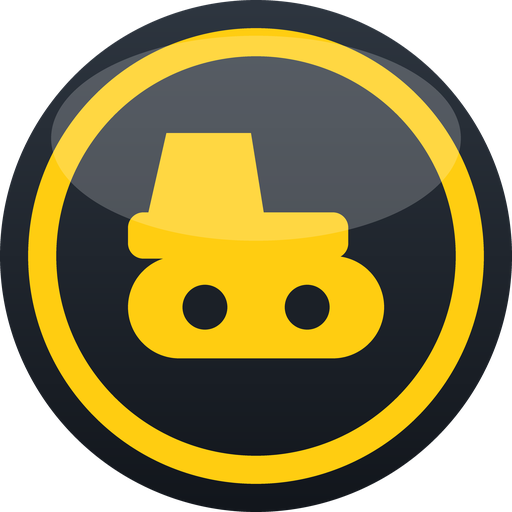
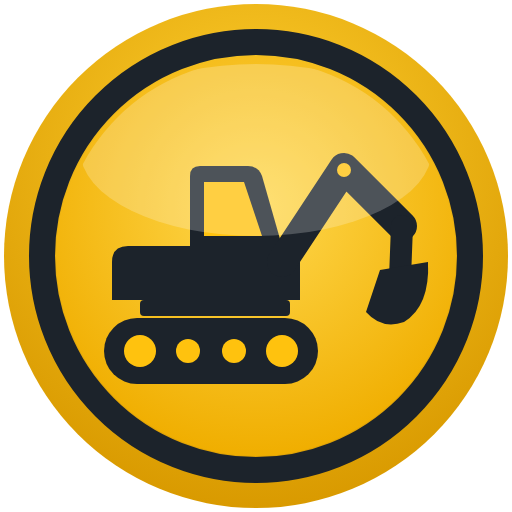
Add files via upload

diff --git a/campo.html b/campo.html
@@ -2,14 +2,14 @@
 <html lang="es">
 <head>
 <meta charset="utf-8">
-<meta name="gllr-version" content="V.191026-4" data-pagina="REPORTE (app de campo)">
+<meta name="gllr-version" content="V.201026-1" data-pagina="REPORTE (app de campo)">
 <meta name="viewport" content="width=device-width,initial-scale=1,viewport-fit=cover">
 <title>REPORTE</title>
 <link rel="manifest" href="campo.webmanifest">
 <link rel="icon" href="campo-32.png" sizes="32x32">
 <link rel="icon" href="campo-192.png" sizes="192x192">
 <link rel="apple-touch-icon" href="campo-180.png">
-<meta name="theme-color" content="#1c232b">
+<meta name="theme-color" content="#FFC20E">
 <meta name="apple-mobile-web-app-capable" content="yes">
 <meta name="mobile-web-app-capable" content="yes">
 <meta name="apple-mobile-web-app-title" content="REPORTE">
@@ -95,15 +95,80 @@ canvas.firma{width:100%;height:120px;border:1px dashed #b8c0ca;border-radius:10p
 @media (min-width:700px){main{max-width:640px;margin:0 auto;width:100%}}
 .tp{grid-template-columns:46px 1fr 1fr 1fr}
 .neu{width:42px;height:52px}
+
+/* ═══ ESTILO tipo AppSheet (Material) ═══ */
+:root{--am:#FFC20E;--amT:#2b2100;--bg:#f5f5f5;--gris:#5f6368}
+body{font-family:Roboto,"Segoe UI",Arial,sans-serif;background:var(--bg)}
+header{background:var(--am);color:var(--amT);box-shadow:0 2px 4px rgba(0,0,0,.2);padding:calc(10px + env(safe-area-inset-top)) 10px 12px;z-index:5}
+header .t{font-weight:500;font-size:20px}header .s{color:#6b5300;font-size:13.5px}
+header .bk{display:flex;align-items:center;width:34px}header .bk svg{width:26px;height:26px}
+header .hico{width:38px;height:38px;border-radius:50%;display:flex;align-items:center;justify-content:center;cursor:pointer;flex-shrink:0}
+header .hico svg{width:26px;height:26px;fill:var(--amT)}
+.net{margin-left:auto;background:rgba(255,255,255,.6)!important}
+svg{fill:currentColor}
+main{padding:12px 12px calc(24px + env(safe-area-inset-bottom))}
+main.full{padding:0 0 110px}
+.c{border-radius:6px;box-shadow:0 1px 2px rgba(0,0,0,.14);padding:14px}
+.c h4{color:#202124;font-weight:500;font-size:18px}
+.sec{color:#7a5b00;font-weight:700;letter-spacing:.06em;border-bottom:2px solid var(--am);padding-bottom:6px;margin-bottom:8px}
+label{color:var(--gris);font-weight:500;letter-spacing:.02em}
+input,select,textarea{border-radius:4px;border:1px solid #c4c7c5}
+input:focus,select:focus,textarea:focus{outline:none;border-color:#E0A800;box-shadow:0 0 0 2px rgba(255,194,14,.35)}
+.chips span{border-radius:4px;background:#f1f3f4;border:1px solid #e0e0e0;flex:1;text-align:center;padding:12px 10px;color:#3c4043}
+.chips span.on{background:var(--am);border-color:#E0A800;color:var(--amT);font-weight:700}
+.chips span.on.op{color:#fff}.chips span.on.in{color:#fff}
+.tec span{border-radius:4px;background:#f1f3f4;border-color:#e0e0e0}
+.tec span.on{background:var(--am);border-color:#E0A800;color:var(--amT)}
+.btn{border-radius:6px;font-weight:700;letter-spacing:.03em}
+.b-y{background:var(--am);color:var(--amT)}.b-n{background:#1c232b}
+.hint{color:#7a5b00}.add{color:#B07D00}
+/* barra inferior */
+#tabs{display:flex;background:var(--am);box-shadow:0 -1px 4px rgba(0,0,0,.18);padding-bottom:env(safe-area-inset-bottom);flex-shrink:0;z-index:5}
+#tabs a{flex:1;display:flex;flex-direction:column;align-items:center;gap:3px;padding:9px 2px 8px;font-size:12.5px;color:#5a4600;text-transform:uppercase;letter-spacing:.02em;position:relative;cursor:pointer;text-decoration:none}
+#tabs a svg{width:25px;height:25px;fill:#5a4600}
+#tabs a.on{color:#1a1400;font-weight:700}#tabs a.on svg{fill:#1a1400}
+#tabs a.on:after{content:'';position:absolute;bottom:3px;width:40px;height:3px;border-radius:2px;background:#1c232b}
+/* pie de formulario Cancelar | Guardar */
+#pie{display:flex;background:#fff;border-top:1px solid #e0e0e0;flex-shrink:0;padding-bottom:env(safe-area-inset-bottom);z-index:5}
+#pie button{flex:1;border:none;background:none;padding:17px;font:inherit;font-size:18px;cursor:pointer;color:#3c4043}
+#pie button.g{color:#C48A00;font-weight:700}#pie button:disabled{opacity:.4}
+/* botón flotante */
+.fab{position:fixed;right:18px;bottom:calc(86px + env(safe-area-inset-bottom));width:62px;height:62px;border-radius:50%;background:var(--am);box-shadow:0 4px 12px rgba(0,0,0,.3);display:flex;align-items:center;justify-content:center;cursor:pointer;z-index:20}
+.fab svg{width:34px;height:34px;fill:#1c232b}
+/* listas tipo tabla */
+.bar{background:#fff;padding:10px 14px;display:flex;align-items:center;gap:10px;border-bottom:1px solid #e6e6e6}
+.bar select{flex:1}
+.gh{background:#f1f3f4;padding:10px 14px;font-size:14px;color:#3c4043;text-transform:uppercase;letter-spacing:.03em;display:flex;gap:8px;align-items:center;border-bottom:1px solid #e3e3e3}
+.gh .ct{background:#dadce0;border-radius:3px;padding:0 7px;font-size:13px;font-weight:700}
+.li{display:flex;align-items:center;gap:12px;padding:12px 14px;border-bottom:1px solid #eee;cursor:pointer;background:#fff}
+.li:active{background:#FFF8E1}
+.li .av{width:44px;height:44px;border-radius:50%;display:flex;align-items:center;justify-content:center;flex-shrink:0}
+.li .av svg{width:24px;height:24px}
+.li .tx{flex:1;min-width:0}
+.li .tx b{display:block;font-weight:500;font-size:17px;color:#202124;white-space:nowrap;overflow:hidden;text-overflow:ellipsis}
+.li .tx small{display:block;color:var(--gris);font-size:14.5px;white-space:nowrap;overflow:hidden;text-overflow:ellipsis}
+.li .chev svg{width:22px;height:22px;fill:#80868b}
+.vacio{text-align:center;color:var(--gris);padding:40px 24px;font-size:16px}
+.vacio svg{width:56px;height:56px;fill:#d0d3d6;display:block;margin:0 auto 10px}
+.a1{background:#FFF3CC;color:#B07D00}.a2{background:#E3F2FD;color:#1565C0}.a3{background:#ECEFF1;color:#37474F}
+.a4{background:#FBE9E7;color:#BF360C}.a5{background:#E8F5E9;color:#2E7D32}.a6{background:#F3E5F5;color:#6A1B9A}
+.hb{border-radius:16px;box-shadow:0 1px 4px rgba(0,0,0,.08)}.hb .i{background:#E6E9F7}.hb b{color:var(--navy);font-weight:800}
+.sbtn{width:52px;flex-shrink:0;border-radius:10px;background:#E6E9F7;display:flex;align-items:center;justify-content:center;cursor:pointer}.sbtn svg{width:26px;height:26px;fill:var(--navy)}
+#cqSel{font-size:17px}
+header>div{min-width:0}header .t{white-space:nowrap;overflow:hidden;text-overflow:ellipsis;font-size:19px}
+.hbt{display:flex;gap:8px}.hbt .btn{flex:1;font-size:16px;padding:13px 6px;white-space:nowrap}
 </style>
 </head>
 <body>
 <header>
-  <span class="bk" id="bk">‹</span><img src="campo-192.png" alt="" style="width:28px;height:28px">
+  <span class="bk" id="bk"><svg viewBox="0 0 24 24"><path d="M20 11H7.83l5.59-5.59L12 4l-8 8 8 8 1.41-1.41L7.83 13H20v-2z"/></svg></span><img id="hlogo" src="campo-192.png" alt="" style="width:30px;height:30px">
   <div><div class="t" id="tit">REPORTE</div><div class="s" id="sub"></div></div>
   <span class="net on" id="net">● En línea</span>
+  <span class="hico" id="hRef" title="Actualizar" onclick="actualizar()"><svg viewBox="0 0 24 24"><path d="M17.65 6.35A7.96 7.96 0 0 0 12 4a8 8 0 1 0 7.73 10h-2.08A6 6 0 1 1 12 6c1.66 0 3.14.69 4.22 1.78L13 11h7V4l-2.35 2.35z"/></svg></span>
 </header>
 <main id="main"></main>
+<nav id="tabs" class="hide"></nav>
+<div id="pie" class="hide"><button onclick="atras()">Cancelar</button><button class="g" id="btnGuardar" onclick="guardar()">Guardar</button></div>
 <div class="toast" id="toast"></div>
 <input type="file" id="inFoto" accept="image/*" capture="environment" class="hide">
 
@@ -210,6 +275,30 @@ async function crearColaborador(d,userId){
   return data;
 }
 
+
+/* ═══════════════════════ ÍCONOS (Material) ═══════════════════════ */
+const IC={
+ rep:'<path d="M19 3h-4.18C14.4 1.84 13.3 1 12 1s-2.4.84-2.82 2H5a2 2 0 0 0-2 2v14a2 2 0 0 0 2 2h14a2 2 0 0 0 2-2V5a2 2 0 0 0-2-2zm-7 0a1 1 0 1 1 0 2 1 1 0 0 1 0-2zm2 14H7v-2h7v2zm3-4H7v-2h10v2zm0-4H7V7h10v2z"/>',
+ bus:'<path d="M15.5 14h-.79l-.28-.27A6.47 6.47 0 0 0 16 9.5 6.5 6.5 0 1 0 9.5 16c1.61 0 3.09-.59 4.23-1.57l.27.28v.79l5 4.99L20.49 19l-4.99-5zm-6 0C7.01 14 5 11.99 5 9.5S7.01 5 9.5 5 14 7.01 14 9.5 11.99 14 9.5 14z"/>',
+ pin:'<path d="M16 9V4h1a1 1 0 0 0 0-2H7a1 1 0 0 0 0 2h1v5c0 1.66-1.34 3-3 3v2h5.97v7l1 1 1-1v-7H19v-2c-1.66 0-3-1.34-3-3z"/>',
+ yo:'<path d="M12 2a10 10 0 1 0 0 20 10 10 0 0 0 0-20zm0 3a3 3 0 1 1 0 6 3 3 0 0 1 0-6zm0 14.2a7.2 7.2 0 0 1-6-3.22c.03-1.99 4-3.08 6-3.08s5.97 1.09 6 3.08a7.2 7.2 0 0 1-6 3.22z"/>',
+ MECANICO:'<path d="M22.7 19l-9.1-9.1c.9-2.3.4-5-1.5-6.9-2-2-5-2.4-7.4-1.3L9 6 6 9 1.6 4.7C.4 7.1.9 10.1 2.9 12.1c1.9 1.9 4.6 2.4 6.9 1.5l9.1 9.1c.4.4 1 .4 1.4 0l2.3-2.3c.5-.4.5-1.1.1-1.4z"/>',
+ LUBRICACION:'<path d="M12 2c-5.33 4.55-8 8.48-8 11.8 0 4.98 3.8 8.2 8 8.2s8-3.22 8-8.2c0-3.32-2.67-7.25-8-11.8z"/>',
+ LLANTAS:'<path d="M12 2a10 10 0 1 0 0 20 10 10 0 0 0 0-20zm0 4a6 6 0 1 1 0 12 6 6 0 0 1 0-12zm0 3.5a2.5 2.5 0 1 0 0 5 2.5 2.5 0 0 0 0-5z"/>',
+ GETS:'<path d="M2 20h20l-4-9-3 4-3-9-4 8-2-3z"/>',
+ MNTTO_PREV:'<path d="M17 12h-5v5h5v-5zM16 1v2H8V1H6v2H5a2 2 0 0 0-1.99 2L3 19a2 2 0 0 0 2 2h14a2 2 0 0 0 2-2V5a2 2 0 0 0-2-2h-1V1h-2zm3 18H5V8h14v11z"/>',
+ PENDIENTE:'<path d="M16 9V4h1a1 1 0 0 0 0-2H7a1 1 0 0 0 0 2h1v5c0 1.66-1.34 3-3 3v2h5.97v7l1 1 1-1v-7H19v-2c-1.66 0-3-1.34-3-3z"/>',
+ env:'<path d="M19.35 10.04A7.49 7.49 0 0 0 12 4C9.11 4 6.6 5.64 5.35 8.04A5.994 5.994 0 0 0 0 14c0 3.31 2.69 6 6 6h13c2.76 0 5-2.24 5-5 0-2.64-2.05-4.78-4.65-4.96zM14 13v4h-4v-4H7l5-5 5 5h-3z"/>',
+ out:'<path d="M10.09 15.59L11.5 17l5-5-5-5-1.41 1.41L12.67 11H3v2h9.67l-2.58 2.59zM19 3H5a2 2 0 0 0-2 2v4h2V5h14v14H5v-4H3v4a2 2 0 0 0 2 2h14a2 2 0 0 0 2-2V5a2 2 0 0 0-2-2z"/>',
+ edit:'<path d="M3 17.25V21h3.75L17.81 9.94l-3.75-3.75L3 17.25zM20.71 7.04a1 1 0 0 0 0-1.41l-2.34-2.34a1 1 0 0 0-1.41 0l-1.83 1.83 3.75 3.75 1.83-1.83z"/>',
+ ref:'<path d="M17.65 6.35A7.96 7.96 0 0 0 12 4a8 8 0 1 0 7.73 10h-2.08A6 6 0 1 1 12 6c1.66 0 3.14.69 4.22 1.78L13 11h7V4l-2.35 2.35z"/>',
+ mas:'<path d="M19 13h-6v6h-2v-6H5v-2h6V5h2v6h6v2z"/>',
+ chev:'<path d="M10 6L8.59 7.41 13.17 12l-4.58 4.59L10 18l6-6z"/>'};
+const svg=k=>`<svg viewBox="0 0 24 24">${IC[k]||''}</svg>`;
+const AVC={MECANICO:'a1',LUBRICACION:'a2',LLANTAS:'a3',GETS:'a4',MNTTO_PREV:'a5',PENDIENTE:'a6'};
+const TABS=[];
+const FORMS=['MECANICO','LUBRICACION','LLANTAS','GETS','MNTTO_PREV','PENDIENTE'];
+function li(av,ic,t,sub,der,on){return `<div class="li" ${on?`onclick="${on}"`:''}><div class="av ${av}">${svg(ic)}</div><div class="tx"><b>${t}</b><small>${sub}</small></div>${der||''}<span class="chev">${svg('chev')}</span></div>`;}
 /* ═══════════════════════ NAVEGACIÓN ═══════════════════════ */
 function ir(p,raiz){if(!raiz)S.pila.push(S.pant);else S.pila=[];S.pant=p;if(!['hecho'].includes(p))S.F=nuevoF();pintar();$('main').scrollTop=0;}
 function atras(){if(S.pila.length){S.pant=S.pila.pop();pintar();}}
@@ -217,11 +306,17 @@ $('bk').onclick=atras;
 function nuevoF(){const yo=S.col?[S.col.codigo]:[];return {tec:yo,ins:[],fotos:[],firma:[],ch:{}};}
 const TIT={cargando:'REPORTE',login:'Ingresar',alta:'Registro de colaborador',espera:'Cuenta en revisión',perfil:'Mis datos',home:'Inicio',reporte:'Reporte',
   MECANICO:'1 · Reporte mecánico',LUBRICACION:'2 · Lubricación',LLANTAS:'3 · Llantas',GETS:'4 · GETs',MNTTO_PREV:'5 · Mntto preventivo',PENDIENTE:'Nuevo pendiente',
-  pend:'Pendientes',consulta:'Consulta',envios:'Envíos',hecho:'Registro guardado'};
+  pend:'Pendientes',consulta:'Consulta',envios:'Envíos',hecho:'Registro guardado',mas:'Mi cuenta'};
+TIT.home='REPORTE MECÁNICO';TIT.reporte='Nuevo reporte';
 function pintar(){
   $('tit').textContent=TIT[S.pant]||'REPORTE';
   $('sub').textContent=S.col?`${S.col.codigo} · ${S.obra||'sin obra'}`:'';
-  $('bk').style.visibility=S.pila.length?'visible':'hidden';
+  $('bk').style.display=S.pila.length?'':'none';
+  const enTab=!!S.col&&TABS.some(t=>t[0]===S.pant), enForm=FORMS.includes(S.pant);
+  $('tabs').classList.toggle('hide',!enTab); $('pie').classList.toggle('hide',!enForm);
+  if(enTab)$('tabs').innerHTML=TABS.map(t=>`<a class="${S.pant===t[0]?'on':''}" onclick="ir('${t[0]}',true)">${svg(t[1])}<span>${t[2]}</span></a>`).join('');
+  $('hlogo').style.display=S.pila.length?'none':''; $('hRef').style.display='none'; $('btnGuardar').disabled=false;
+  $('main').classList.toggle('full',['reporte','mas'].includes(S.pant));
   $('main').innerHTML=(P[S.pant]||(()=>''))();
   if(AFTER[S.pant])AFTER[S.pant]();
   initFirma(); initUpper();
@@ -286,7 +381,7 @@ function cierre(){return `<div class="c"><div class="sec">Foto (opcional, máx. 
    <div class="fotos">${S.F.fotos.map((f,i)=>`<div style="background-image:url(${f.url})"><i onclick="event.stopPropagation();S.F.fotos.splice(${i},1);guardarCampos();pintar()">✕</i></div>`).join('')}${S.F.fotos.length<3?`<div onclick="guardarCampos();$('inFoto').click()">📷</div>`:''}</div>
    <label>Observación adicional</label><textarea class="up" rows="2" data-k="obs">${esc(vF('obs'))}</textarea>
    <label>Firma de quien registra (${esc(S.col?S.col.codigo:'')})</label><canvas class="firma" id="firma"></canvas><span class="add" onclick="S.F.firma=[];initFirma()">Borrar firma</span>
-   <button class="btn b-y" id="btnGuardar" onclick="guardar()">Guardar registro</button></div>`;}
+</div>`;}
 /* fotos: se comprimen en el celular (máx. 1280 px, JPEG ~70%) */
 $('inFoto').onchange=async()=>{const f=$('inFoto').files[0];$('inFoto').value='';if(!f)return;
   try{const b=await comprimir(f);S.F.fotos.push({blob:b,url:URL.createObjectURL(b)});pintar();toast(`📷 Foto lista (${Math.round(b.size/1024)} KB)`);}catch(e){toast('No se pudo leer la foto');}};
@@ -327,21 +422,28 @@ const P={
  espera:()=>`<div class="c" style="text-align:center"><div style="font-size:42px">⏳</div><h4>Tu cuenta está en revisión</h4>
    <div class="dim">Un administrador debe aprobarla y habilitarte "App REPORTE (celular)" en Usuarios.</div>
    <button class="btn b-n" onclick="arrancar()">Volver a intentar</button><button class="btn b-g" onclick="salir()">Cerrar sesión</button></div>`,
- home:()=>{const nq=S.COLA.filter(x=>!x.enviado).length;
-  return `<div class="logo" style="padding:12px"><img src="campo-192.png" alt="" style="width:46px;height:46px"><div class="tx">REPORTE<small>PARTE DIARIO MECÁNICO · JJC</small></div></div>
-   <div class="c" style="margin-top:10px;display:flex;align-items:center;gap:10px"><div style="flex:1"><div class="dim">Obra</div>
+ home:()=>{const nq=S.COLA.filter(x=>!x.enviado).length, np=(S.PEND||[]).length;
+  return `<div class="c" style="display:flex;align-items:center;gap:10px"><div style="flex:1"><div class="dim">Obra</div>
      <select onchange="S.obra=this.value;localStorage.setItem('campo_obra',this.value);pintar()">${opts(obras(),S.obra,'— todas —')}</select></div>
      <div style="text-align:right"><div class="dim">Yo</div><b>${esc(S.col.codigo)}</b></div></div>
-   <div class="hb" onclick="ir('reporte')"><div class="i">📝</div><div><b>REPORTE</b><small>registrar un trabajo en un equipo</small></div></div>
-   <div class="hb" onclick="ir('consulta')"><div class="i">🔍</div><div><b>CONSULTA</b><small>historial y próximo PM de un equipo</small></div></div>
-   <div class="hb" onclick="ir('pend')"><div class="i">📌</div><div><b>PENDIENTES</b><small>backlog de los equipos de la obra</small></div></div>
-   <div class="hb" onclick="ir('envios')"><div class="i">⇅</div><div><b>ENVÍOS</b><small>${nq?nq+' por enviar':'todo enviado'}</small></div>${nq?`<span class="badge" style="background:#E0B000;color:#3B2E00">${nq}</span>`:''}</div>
-   <div style="display:flex;gap:8px"><button class="btn b-g" style="flex:1" onclick="ir('perfil')">Mis datos</button><button class="btn b-g" style="flex:1" onclick="actualizar()">↻ Actualizar listas</button><button class="btn b-g" style="flex:1" onclick="salir()">Salir</button></div>
+   <div class="hb" onclick="ir('reporte')"><div class="i">📝</div><div><b>REPORTE</b><small>registrar trabajo en un equipo</small></div></div>
+   <div class="hb" onclick="ir('consulta')"><div class="i">🔍</div><div><b>CONSULTA</b><small>historial, próximo PM, llantas</small></div></div>
+   <div class="hb" onclick="ir('pend')"><div class="i">📌</div><div><b>PENDIENTES</b><small>backlog de mis equipos</small></div><span class="badge" id="pendBadge" ${np?'':'style="display:none"'}>${np}</span></div>
+   <div class="hb" onclick="ir('envios')"><div class="i">⇅</div><div><b>ENVÍOS</b><small>${nq?nq+' por enviar':'todo sincronizado'}</small></div>${nq?`<span class="badge" style="background:#E0B000;color:#3B2E00">${nq}</span>`:''}</div>
+   <div class="hbt"><button class="btn b-g" onclick="ir('perfil')">Mis datos</button><button class="btn b-g" onclick="actualizar()">Actualizar</button><button class="btn b-g" onclick="salir()">Salir</button></div>
    <div class="ver">${VERSION} · ${S.EQ.length} equipos · ${S.COL.length} colaboradores</div>`;},
- reporte:()=>`<div class="sec">Elige el tipo de reporte</div><div class="mods">
-   ${[['MECANICO','1','🔧','REP. MECÁNICO','mecánico · soldador · eléctrico'],['LUBRICACION','2','🛢','LUBRICACIÓN','engrase · rellenos'],['LLANTAS','3','🛞','LLANTAS','presión · cocada · cambios'],
-     ['GETS','4','⛏','GETs','puntas · cuchillas'],['MNTTO_PREV','5','🗓','MNTTO PREV.','PM1 · PM2 · PM3 · PM4'],['PENDIENTE','','📌','PENDIENTE','solo dejar un backlog']]
-     .map(m=>`<div class="mod" onclick="ir('${m[0]}')"><span class="n">${m[1]}</span><div class="i">${m[2]}</div><b>${m[3]}</b><small>${m[4]}</small></div>`).join('')}</div>`,
+ reporte:()=>`<div class="gh">Elige el tipo de reporte</div>
+   ${[['MECANICO','REP. MECÁNICO','mecánico · soldador · eléctrico'],['LUBRICACION','LUBRICACIÓN','engrase · rellenos'],['LLANTAS','LLANTAS','presión · cocada · cambios'],
+     ['GETS','GETs','puntas · cuchillas'],['MNTTO_PREV','MNTTO PREVENTIVO','PM1 · PM2 · PM3 · PM4'],['PENDIENTE','PENDIENTE','solo dejar un backlog']]
+     .map((m,i)=>li(AVC[m[0]],m[0],(i<5?(i+1)+' · ':'')+m[1],m[2],'',`ir('${m[0]}')`)).join('')}`,
+ mas:()=>{const nq=S.COLA.filter(x=>!x.enviado).length;
+  return `<div class="li" style="cursor:default"><div class="av a1" style="width:56px;height:56px">${svg('yo')}</div><div class="tx"><b>${esc(S.col.codigo)}</b><small>${esc(S.col.nombres)} ${esc(S.col.ap_paterno)} ${esc(S.col.ap_materno||'')}</small><small>${esc(S.obra||'sin obra')} · ${esc(S.col.especialidad||'')}</small></div></div>
+   <div class="gh">Opciones</div>
+   ${li('a3','edit','Mis datos','nombres, obra, especialidad','',`ir('perfil')`)}
+   ${li('a2','env','Envíos',nq?nq+' por enviar':'todo enviado',nq?`<span class="badge" style="background:#E0B000;color:#3B2E00">${nq}</span>`:'',`ir('envios')`)}
+   ${li('a5','ref','Actualizar listas',`${S.EQ.length} equipos · ${S.COL.length} colaboradores`,'',`actualizar()`)}
+   ${li('a4','out','Cerrar sesión','','',`salir()`)}
+   <div class="ver">${VERSION}</div>`;},
  MECANICO:()=>{const esps=['MECANICO','SOLDADOR','ELECTRICISTA'];const def=esps.includes(S.col.especialidad)?S.col.especialidad:'MECANICO';if(S.F.ch.esp==null)S.F.ch.esp=def;const e=S.F.ch.esp;
   return cabecera(true)+`<div class="c"><div class="sec">Reporte</div>
    <label>Especialidad</label>${chips('esp',esps)}
@@ -408,13 +510,14 @@ const P={
      <div style="text-align:right"><span class="pill ${x.enviado?'p-ok':x.error?'p-b':'p-w'}">${x.enviado?'✓ Enviado':x.error?'Error':'⏳ En cola'}</span><br><span class="add" onclick="whatsappId('${x.id}')">📲</span></div></div>`).join(''):'<div class="dim">Sin registros en este celular.</div>'}</div>
    <button class="btn b-n" onclick="sincronizar(true)" ${S.online?'':'disabled'}>Enviar ahora</button>
    <div class="dim" style="margin-top:6px">Los enviados se quedan aquí 7 días para reenviarlos por WhatsApp.</div>`;},
- consulta:()=>`<div class="c"><label>Equipo</label><input list="dlEq2" placeholder="Código o nombre" value="${esc(vF('cq'))}" onchange="S.F.cq=this.value;consultar()"><datalist id="dlEq2">${eqObra().map(x=>`<option value="${esc(x.cod_sap)} · ${esc(x.equipo||'')}">`).join('')}</datalist></div><div id="cqRes"></div>`,
+ consulta:()=>`<div class="c"><label>Equipo</label><div class="eqsel"><select id="cqSel" onchange="S.F.cq=this.value;consultar()">${cqOpts()}</select><span class="sbtn" title="Buscar" onclick="S.F.cqBus=!S.F.cqBus;guardarCampos();pintar()">${svg('bus')}</span></div>
+   ${S.F.cqBus?`<input class="up" id="cqBus" style="margin-top:8px" placeholder="FILTRAR POR CÓDIGO O NOMBRE" value="${esc(vF('cqf'))}" oninput="S.F.cqf=this.value;$('cqSel').innerHTML=cqOpts()">`:''}</div><div id="cqRes"></div>`,
  pend:()=>`<div class="c"><h4>📌 Pendientes · ${esc(S.obra||'todas las obras')}</h4><div id="pdRes" class="dim">${S.online?'Cargando…':'Sin señal: se muestran los últimos descargados.'}</div></div>
    <button class="btn b-g" onclick="ir('PENDIENTE')">+ Nuevo pendiente</button>`,
  perfil:()=>{if(S.col&&S.F.nombres==null){Object.assign(S.F,{nombres:S.col.nombres,ap_paterno:S.col.ap_paterno,ap_materno:S.col.ap_materno||'',obra:S.col.obra||'',especialidad:S.col.especialidad||'MECANICO'});}
   return P.alta();}
 };
-const AFTER={alta:()=>prevCod(),perfil:()=>prevCod(),consulta:()=>{if(S.F.cq)consultar();},pend:()=>cargarPend(),
+const AFTER={home:()=>cargarPend(),alta:()=>prevCod(),perfil:()=>prevCod(),consulta:()=>{if(S.F.cq)consultar();},pend:()=>cargarPend(),
   MECANICO:chkHr,LUBRICACION:chkHr,LLANTAS:chkHr,GETS:chkHr,MNTTO_PREV:chkHr};
 const MODN={MECANICO:'Reporte mecánico',LUBRICACION:'Lubricación',LLANTAS:'Llantas',GETS:'GETs',MNTTO_PREV:'Mntto preventivo',PENDIENTE:'Pendiente'};
 
@@ -557,24 +660,45 @@ function textoWA(r){
   return L.join('\n');
 }
 function whatsapp(r){const u='https://wa.me/?text='+encodeURIComponent(textoWA(r));window.open(u,'_blank');}
+function verReg(id){const it=S.COLA.find(x=>x.id===id);if(!it)return;S.ult={reg:it.reg,enviado:!!it.enviado};ir('hecho');}
 function whatsappId(id){const it=S.COLA.find(x=>x.id===id);if(it)whatsapp(it.reg);}
 
 /* ═══════════════════════ CONSULTA Y PENDIENTES ═══════════════════════ */
+function cqOpts(){const q=nrm(S.F.cqf||'');const L=eqObra().filter(x=>!q||nrm(x.cod_sap+' '+(x.equipo||'')+' '+(x.modelo||'')).includes(q));
+  return '<option value="">— elegir equipo —</option>'+L.map(x=>`<option value="${esc(x.cod_sap)}" ${S.F.cq===x.cod_sap?'selected':''}>${esc(x.cod_sap)} · ${esc(x.equipo||'')} ${esc(x.modelo||'')}</option>`).join('');}
+const ESPN={MECANICO:'Mecánico',SOLDADOR:'Soldador',ELECTRICISTA:'Electricista',LUBRICADOR:'Lubricador',LLANTERO:'Llantero'};
+const espDe=r=>ESPN[r.especialidad]||({LUBRICACION:'Lubricador',LLANTAS:'Llantero'}[r.modulo])||'Mecánico';
+const SOSP={CRITICO:['p-b','Crítico'],PRECAUCION:['p-w','Precaución'],NORMAL:['p-ok','Normal']};
 async function consultar(){const c=String(S.F.cq||'').split('·')[0].trim().toUpperCase(), e=eqDe(c), box=$('cqRes');if(!box)return;
-  if(!e){box.innerHTML='<div class="c dim">Equipo no encontrado.</div>';return;}
+  if(!c){box.innerHTML='';return;} if(!e){box.innerHTML='<div class="c dim">Equipo no encontrado.</div>';return;}
+  const u=e.contador==='Km'?'km':'h';
   const prox=+e.frecuencia?(+e.hrkm_ult_mntto||0)+(+e.frecuencia):null, rest=prox!=null&&e.hrkm_actual!=null?prox-(+e.hrkm_actual):null;
   const dsf=window.GLLR_DSF&&GLLR_DSF.de(e.cod_sap).length;
+  box.innerHTML=`<div class="c"><h4 style="color:var(--navy);font-weight:800">${esc(e.cod_sap)} · ${esc(e.equipo||'')} ${esc(e.modelo||'')}</h4>
+    <div class="row"><span>HR/KM actual</span><span><b>${e.hrkm_actual!=null?f0(e.hrkm_actual):'—'}</b>${dsf?' <span class="pill p-a">⟲ desfase</span>':''}</span></div>
+    <div class="row"><span>Próximo PM</span>${rest==null?'<span class="dim">—</span>':`<span class="pill ${rest<0?'p-b':rest<(+e.frecuencia*0.1)?'p-w':'p-ok'}">${rest<0?'vencido '+f0(-rest):'faltan '+f0(rest)} ${u}</span>`}</div>
+    <div class="row"><span>Pendientes abiertos</span><b id="cqPend">…</b></div>
+    <div class="row"><span>Último SOS</span><span id="cqSos" class="dim">…</span></div></div>
+    <div class="c"><h4 style="color:var(--navy);font-weight:800">Últimos registros</h4><div id="cqL" class="dim">${S.online?'Cargando…':''}</div></div>`;
+  // pendientes abiertos del equipo
+  let np=(S.PEND||[]).filter(p=>p.cod_sap===e.cod_sap).length;
+  if(S.online){const {data}=await sb.from('pdm_registros').select('id').eq('cod_sap',e.cod_sap).eq('backlog_estado','ABIERTO').eq('anulado',false);if(data)np=data.length;}
+  if($('cqPend'))$('cqPend').textContent=np;
+  // último resultado SOS (el peor estado entre los últimos de cada sistema)
+  let sos=(await DB.get('sos_'+e.cod_sap).catch(()=>null))||null;
+  if(S.online){const {data}=await sb.from('sos_muestras').select('sistema,estado_std,f_muestreo').eq('cod_sap',e.cod_sap).order('f_muestreo',{ascending:false}).limit(80);
+    if(data){const ult={};data.forEach(m=>{const k=m.sistema||'-';if(!ult[k]||String(m.f_muestreo)>String(ult[k].f_muestreo))ult[k]=m;});
+      const rk={CRITICO:3,PRECAUCION:2,NORMAL:1};sos=Object.values(ult).sort((a,b)=>(rk[b.estado_std]||0)-(rk[a.estado_std]||0)||String(b.f_muestreo).localeCompare(String(a.f_muestreo)))[0]||null;DB.set('sos_'+e.cod_sap,sos);}}
+  if($('cqSos')){const t=sos&&SOSP[sos.estado_std];$('cqSos').className='';$('cqSos').innerHTML=sos?`<span class="pill ${t?t[0]:'p-a'}">${esc(t?t[1]:sos.estado_std)} · ${fd(sos.f_muestreo)}</span>`:'<span class="dim">—</span>';}
+  // historial
   let regs=S.REC.filter(r=>r.cod_sap===e.cod_sap).concat(S.COLA.filter(x=>!x.enviado&&x.reg.cod_sap===e.cod_sap).map(x=>x.reg));
-  box.innerHTML=`<div class="c"><h4>${esc(e.cod_sap)} · ${esc(e.equipo||'')}</h4><div class="dim">${esc(e.marca||'')} ${esc(e.modelo||'')} · ${esc(e.cod_proyec||'')} · ${esc(e.status||'')}</div>
-    <div class="row"><span>${e.contador==='Km'?'KM':'HR'} actual</span><b>${e.hrkm_actual!=null?f0(e.hrkm_actual):'—'}${dsf?' <span class="pill p-a">⟲ desfase</span>':''}</b></div>
-    <div class="row"><span>Próximo PM</span>${rest==null?'<span class="dim">—</span>':`<span class="pill ${rest<0?'p-b':rest<(+e.frecuencia*0.1)?'p-w':'p-ok'}">${rest<0?'vencido '+f0(-rest):'faltan '+f0(rest)} ${e.contador==='Km'?'km':'h'}</span>`}</div></div>
-    <div class="c"><h4>Últimos registros</h4><div id="cqL" class="dim">${S.online?'Cargando…':''}</div></div>`;
-  const pint=L=>{if(!$('cqL'))return;$('cqL').innerHTML=L.length?L.slice(0,20).map(r=>`<div class="row"><span>${fd(r.fecha)} · <b>${esc(MODN[r.modulo]||r.modulo)}</b><br><span class="dim">${esc(r.trabajo||r.sistema||'')}${r.backlog?' · 📌':''}</span></span><span class="dim">${esc((r.tecnicos||[]).join(', '))}</span></div>`).join(''):'<span class="dim">Sin registros.</span>';};
-  if(S.online){const {data}=await sb.from('pdm_registros').select('id,fecha,modulo,trabajo,sistema,tecnicos,backlog').eq('cod_sap',e.cod_sap).eq('anulado',false).order('fecha',{ascending:false}).limit(20);if(data)regs=data;}
-  pint(regs);}
+  if(S.online){const {data}=await sb.from('pdm_registros').select('id,fecha,modulo,especialidad,trabajo,sistema,tecnicos,backlog').eq('cod_sap',e.cod_sap).eq('anulado',false).order('fecha',{ascending:false}).limit(20);if(data)regs=data;}
+  if(!$('cqL'))return;
+  $('cqL').className='';$('cqL').innerHTML=regs.length?regs.slice(0,20).map(r=>`<div class="row"><span>${String(fd(r.fecha)).slice(0,5)} · ${esc(MODN[r.modulo]||r.modulo)} · ${esc(String(r.trabajo||r.sistema||'').toLowerCase())}${r.backlog?' 📌':''}</span><span class="dim">${esc(espDe(r))}</span></div>`).join(''):'<span class="dim">Sin registros.</span>';}
 async function cargarPend(){const box=$('pdRes');let L=(await DB.get('pend').catch(()=>null))||[];
   if(S.online){let q=sb.from('pdm_registros').select('id,fecha,cod_sap,backlog,tecnicos,registrado_por,obra,estado_equipo').eq('backlog_estado','ABIERTO').eq('anulado',false).order('fecha',{ascending:false}).limit(150);
     if(S.obra)q=q.eq('obra',S.obra);const {data,error}=await q;if(!error){L=data||[];DB.set('pend',L);}}
+  S.PEND=L;const bd=$('pendBadge');if(bd){bd.textContent=L.length;bd.style.display=L.length?'':'none';}
   if(!box)return;
   box.className='';box.innerHTML=L.length?L.map(p=>`<div class="row"><div><b>${esc(p.cod_sap)}</b> · ${esc(p.backlog)}<br><span class="dim">${fd(p.fecha)} · ${esc(p.registrado_por||'')}${p.estado_equipo==='INOPERATIVO'?' · <b style="color:#B91C1C">INOPERATIVO</b>':''}</span></div>
      <span class="pill p-w" style="cursor:pointer" onclick="cerrarPend('${p.id}')">Cerrar</span></div>`).join(''):'<span class="dim">Sin pendientes abiertos.</span>';}

diff --git a/sw.js b/sw.js
@@ -1,7 +1,7 @@
 /* Service Worker — Maestro de Equipos UDE
    Guarda la app en el navegador para que abra sin internet.
    Los datos NO se guardan aquí: eso lo maneja IndexedDB en cada página. */
-const CACHE = 'gllr-app-v17';
+const CACHE = 'gllr-app-v19';
 const ARCHIVOS = [
   './',
   './index.html',
